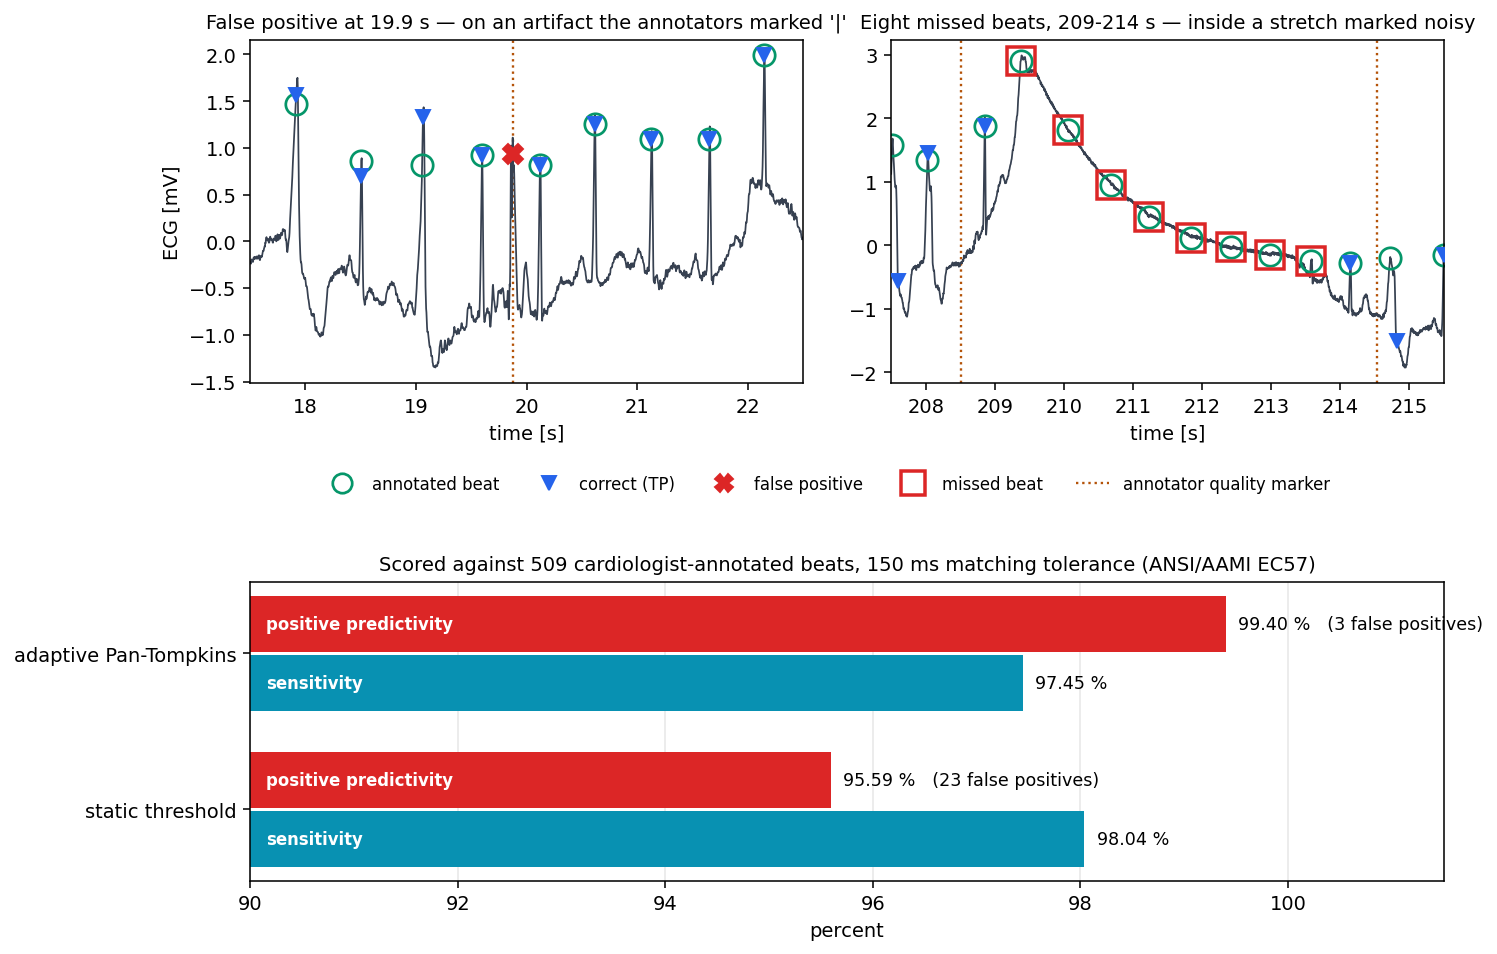
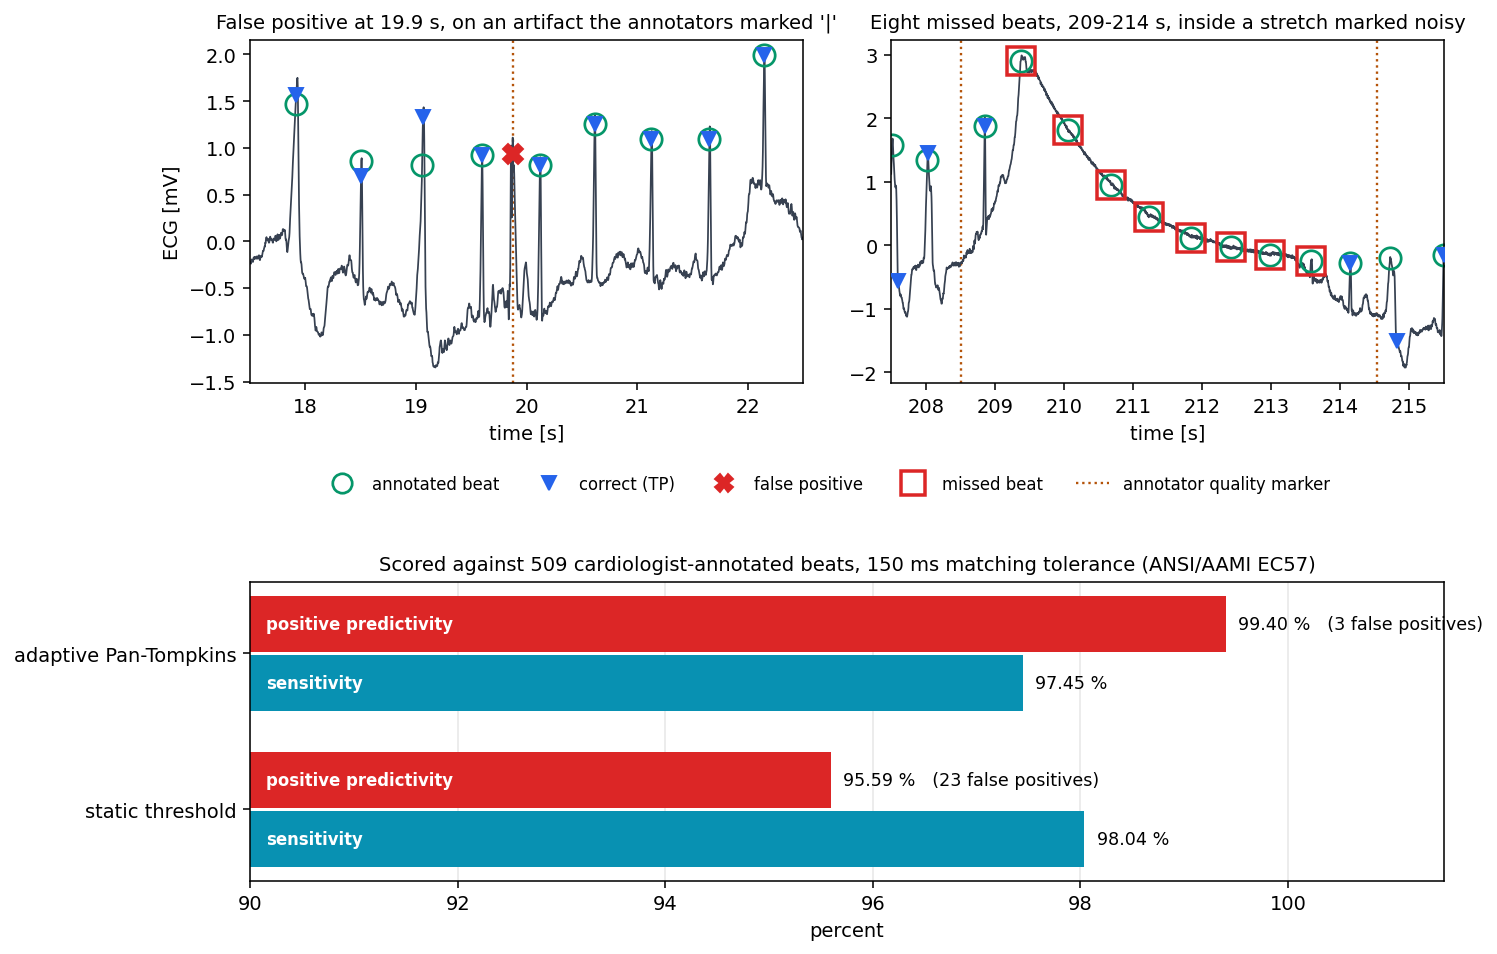
Rewrite docs in plain prose, drop em dashes and header scaffolding

Changed region(s): [[0.1229, 0.0, 0.9833, 0.0304]]

diff --git a/ecg_qrs_pan_tompkins.py b/ecg_qrs_pan_tompkins.py
@@ -1,43 +1,38 @@
 """
-QRS detection on a real ECG — Pan & Tompkins (1985), built and measured
-=======================================================================
-Implements the Pan-Tompkins QRS detector from scratch and scores it against the
-reference beat annotations made by cardiologists, using the standard evaluation
-protocol (ANSI/AAMI EC57: a detection counts as correct if it falls within 150 ms
-of an annotated beat).
+Pan-Tompkins QRS detection, implemented from scratch and scored against real
+cardiologist annotations rather than just plotted and eyeballed. A detection counts
+as correct if it falls within 150 ms of an annotated beat, which is the standard
+ANSI/AAMI EC57 tolerance.
 
-Data
-----
-A 5-minute excerpt of **MIT-BIH record 208**, sampled at 360 Hz — samples
-422820..530820 of the full record, the excerpt distributed with SciPy as
-`scipy.datasets.electrocardiogram`. Record 208 is one of the harder records in the
-database: of the 509 beats in this excerpt, 93 are premature ventricular
-contractions and 56 are fusion beats, so 29 % of the beats are abnormal. It also
-carries real baseline wander and stretches flagged by the annotators as noisy.
+The data is a 5-minute excerpt of MIT-BIH record 208 at 360 Hz, samples
+422820..530820 of the full record (the same excerpt SciPy ships as
+scipy.datasets.electrocardiogram). Record 208 is a genuinely hard case: of its 509
+beats, 93 are premature ventricular contractions and 56 are fusion beats, so 29% of
+the beats are abnormal, and it carries real baseline wander plus stretches the
+annotators themselves flagged as noisy.
 
-Two thresholding strategies
----------------------------
 The filter chain (band-pass, derivative, squaring, moving-window integration) is
-common to both. What differs is how a peak in the integrated signal is judged:
+the same for both detectors below. What differs is how a peak in the integrated
+signal gets judged a heartbeat or not.
 
-  `static`    a single threshold computed once from the whole record. Simple, and
-              what most from-scratch implementations actually do.
+detect_static picks one threshold for the whole record. That's simple, and it's
+what most from-scratch implementations actually do.
 
-  `adaptive`  what the paper actually specifies, and the reason the algorithm works:
-              running signal and noise peak estimates (SPKI / NPKI) that update on
-              every peak, a threshold derived from them, RR-interval limits with
-              search-back to recover beats missed during a dropout, and T-wave
-              discrimination by slope comparison.
+detect_adaptive is what the paper actually specifies, and the reason the algorithm
+works as well as it does: running signal and noise peak estimates (SPKI and NPKI)
+that update on every peak, a threshold derived from them, RR-interval limits with
+search-back to recover a beat missed during a dropout, and T-wave rejection by
+comparing slope against the previous beat.
 
-Both are implemented and both are scored, because the difference between them is
-the interesting result — see the table this script prints.
+Both are implemented and both are scored, because the gap between them is the
+interesting result and it's printed in the table this script writes to
+metrics.txt.
 
-Run
----
+Run with:
     python ecg_qrs_pan_tompkins.py
 
-Everything runs offline from the two files in `data/`. Writes three figures into
-`figures/`, plus `metrics.txt`.
+Everything runs offline from the files already in data/. Writes three figures into
+figures/, plus metrics.txt.
 
 Author: Yasar Aykut Altuntop
 """
@@ -310,12 +305,12 @@ def figure_validation(t, ecg, results, reference, quality):
 
     ax_fp = fig.add_subplot(gs[0, 0])
     _error_panel(ax_fp, t, ecg, adaptive, reference, quality, (17.5, 22.5),
-                 "False positive at 19.9 s — on an artifact the annotators marked '|'")
+                 "False positive at 19.9 s, on an artifact the annotators marked '|'")
     ax_fp.set_ylabel("ECG [mV]")
 
     ax_fn = fig.add_subplot(gs[0, 1])
     _error_panel(ax_fn, t, ecg, adaptive, reference, quality, (207.5, 215.5),
-                 "Eight missed beats, 209-214 s — inside a stretch marked noisy")
+                 "Eight missed beats, 209-214 s, inside a stretch marked noisy")
 
     handles = [
         plt.Line2D([], [], ls="none", marker="o", mfc="none", mec="#059669", ms=10, mew=1.4,

diff --git a/tools/fetch_annotations.py b/tools/fetch_annotations.py
@@ -2,7 +2,7 @@
 Regenerate the ground-truth annotation file from PhysioNet.
 
 The repository already ships `data/annotations_record208_excerpt.csv`, so you do NOT
-need to run this — it exists to document exactly how that file was produced, and to let
+need to run this. It exists to document exactly how that file was produced, and to let
 anyone reproduce it from the original source.
 
 What it does:

diff --git a/README.md b/README.md
@@ -1,116 +1,82 @@
-# QRS Detection on a Real ECG — Pan & Tompkins, Built and Measured
+# QRS Detection on a Real ECG (Pan-Tompkins)
 
-The Pan-Tompkins QRS detector implemented from scratch, then **scored against the beat
-annotations cardiologists made on the same recording** using the standard evaluation
-protocol — not just run and eyeballed.
+This is a from-scratch implementation of the Pan-Tompkins QRS detector, the classic 1985
+algorithm for finding heartbeats in an ECG. It's a learning exercise, not original
+research. The algorithm is well known and plenty of people have implemented it before. What
+I wanted out of this was to actually understand why it's built the way it is, and then hold
+my own implementation to the same standard a real detector would be held to: check it
+against ground truth instead of assuming it works because the plot looks right.
 
-**What this is, plainly:** Pan-Tompkins is a well-known 1985 algorithm that thousands of
-people have implemented; there is nothing novel being claimed here. This is a learning
-exercise — I wanted to actually understand *why* the algorithm is built the way it is,
-which meant implementing the "boring" adaptive-threshold logic that most from-scratch
-versions skip, and then holding myself to the same standard a real detector would be held
-to: score it against ground truth instead of assuming it works because the plot looks
-reasonable. The result below is the outcome of doing that, not a research contribution.
+I ran it on a 5-minute excerpt of MIT-BIH record 208, at 360 Hz, and scored the output
+against the beat-by-beat annotations that cardiologists made on that same recording. That
+scoring is really the point of the project. A detector nobody has validated against a real
+reference is just a demo.
 
-| | detected | TP | FP | FN | Sensitivity | Positive predictivity |
+## Two versions, because the difference is the interesting part
+
+The filtering side of the algorithm is the same in both versions: band-pass at 5-15 Hz to
+keep QRS energy while rejecting baseline wander and T waves, a derivative to emphasize
+steep slopes, squaring so everything is positive and the steep parts get amplified more,
+then a moving-window integration (150 ms, about one QRS width) that turns the spiky
+derivative into one hump per beat. Every implementation gets this part right because it's
+mostly signal-processing plumbing.
+
+Where implementations usually cut corners is the decision stage, deciding which hump in
+that integrated signal is actually a heartbeat. Most from-scratch versions just pick one
+threshold for the whole recording and call it done. That's what I built first (it's in the
+code as `detect_static`), and it's not what Pan and Tompkins actually specified. Their real
+method keeps running estimates of a signal peak and a noise peak that update continuously,
+uses the recent RR interval to decide whether a beat arrived too late and needs a
+search-back to recover something that got missed, and rejects T waves by comparing how
+steep a new peak is against the one before it. I implemented that too (`detect_adaptive`)
+and kept both versions in the script so the difference could be measured instead of just
+asserted.
+
+It matters. Scored against 509 cardiologist-annotated beats with the standard 150 ms
+matching tolerance:
+
+| | detected | correct | false positives | missed | sensitivity | positive predictivity |
 |---|---:|---:|---:|---:|---:|---:|
-| static threshold | 522 | 499 | 23 | 10 | 98.04 % | 95.59 % |
-| **adaptive Pan-Tompkins** | 499 | 496 | **3** | 13 | **97.45 %** | **99.40 %** |
+| static threshold | 522 | 499 | 23 | 10 | 98.04% | 95.59% |
+| adaptive Pan-Tompkins | 499 | 496 | 3 | 13 | 97.45% | 99.40% |
 
-*509 cardiologist-annotated beats · 150 ms matching tolerance (ANSI/AAMI EC57)*
+Doing the decision stage properly cuts the false positives from 23 down to 3. Sensitivity
+drops a little, because the adaptive version is more cautious in noisy stretches, and that
+trade-off is right there in the table instead of hidden behind one summary number.
 
 ![Validation against the reference annotations](figures/ecg_validation.png)
 
----
+## Where the remaining errors come from
 
-## The point of this project
+I didn't stop at the count. MIT-BIH annotators mark more than just beats, they also flag
+signal quality: a `~` where the quality changes, and a `|` for something that looks like a
+QRS but isn't one. I checked every error the adaptive detector made against those markers.
 
-Anyone can implement a band-pass filter and call `find_peaks`. Two things separate that
-from a real QRS detector, and this project is about both.
+Of its 16 total errors, 14 sit inside a stretch the annotators themselves flagged. The one
+false positive fires at 19.9 seconds, right on a sample marked `|`, an artifact that looks
+enough like a real beat that the algorithm can be forgiven for it. The eight beats missed in
+a row between 209 and 214 seconds happen inside a segment bracketed by quality markers,
+where the baseline is swinging through about 5 mV of motion artifact. Only two errors, both
+isolated premature ventricular contractions, have no such excuse and are genuine misses.
 
-**First, the thresholding is the algorithm.** The filter chain — band-pass, derivative,
-squaring, moving-window integration — is the easy half and every implementation has it.
-What Pan and Tompkins actually contributed is the decision stage: running signal and noise
-peak estimates that adapt continuously, RR-interval limits with *search-back* to recover
-beats missed during a dropout, and T-wave rejection by slope comparison. Most from-scratch
-implementations skip all of that and use one fixed threshold.
-
-Both versions are implemented here so the difference can be measured rather than asserted.
-**Replacing the fixed threshold with the real adaptive logic cuts false positives from 23
-to 3.** Sensitivity drops slightly — the adaptive version is more conservative in noise —
-and that trade is visible in the table instead of hidden.
-
-**Second, a detector without a ground truth is a demo.** The reference annotations for
-MIT-BIH are available, so there is no excuse for not scoring against them. `tools/`
-contains the script that fetches them and locates this excerpt inside the full record.
-
----
-
-## Where the errors actually are
-
-Every error was checked against the annotators' own signal-quality markers — `~` for a
-change in signal quality, `|` for an isolated QRS-like artifact.
-
-| | errors | in an annotator-flagged stretch | outside |
-|---|---:|---:|---|
-| static threshold | 33 | 23 (70 %) | 10, scattered across normal, fusion and PVC beats |
-| **adaptive Pan-Tompkins** | **16** | **14 (88 %)** | **2 — both isolated PVCs** |
-
-The adaptive detector's residual errors are almost entirely explained by the recording, not
-the algorithm:
-
-- The single false positive at **19.9 s** lands exactly on a sample the annotators
-  labelled `|` — *an isolated QRS-like artifact*. The detector fired on something that
-  genuinely looks like a QRS and that the reference deliberately excludes from the beat
-  list. Counting it as an error is arguably unfair to the detector.
-- The run of **eight consecutive missed beats between 209 s and 214 s** sits inside a
-  segment bracketed by quality markers at 208.5 s and 214.5 s. The right-hand panel above
-  shows why: the baseline swings through 5 mV, which is motion artifact, and the beats ride
-  down its flank.
-- Only **two** errors — isolated premature ventricular contractions at 113.5 s and
-  138.0 s — have no such explanation.
-
----
+I picked record 208 for a reason: 29% of its beats are abnormal (93 premature ventricular
+contractions and 56 fusion beats among 509 total), so it's a meaningfully harder test than
+an average MIT-BIH record. Published Pan-Tompkins numbers, sensitivity 99.3%, PPV 99.5%, are
+averaged over all 48 records in the database, so this result should read against that
+context rather than against those numbers directly.
 
 ## The data
 
-A 5-minute excerpt of **MIT-BIH record 208** at 360 Hz: samples 422820–530820 of the full
-record, the excerpt distributed with SciPy as `scipy.datasets.electrocardiogram`. That
-offset was not assumed — `tools/fetch_annotations.py` locates the excerpt inside the full
-record by direct sample matching, and finds it at 422820 with a residual of zero.
+The signal is samples 422820 to 530820 of MIT-BIH record 208, the same 5-minute excerpt
+that ships inside SciPy as `scipy.datasets.electrocardiogram`. I didn't just assume that
+offset; `tools/fetch_annotations.py` locates the excerpt inside the full 30-minute record by
+matching samples directly, and finds it at 422820 with zero residual difference. That's what
+makes the reference annotations line up with the detector's output sample-for-sample.
 
-Record 208 is deliberately a hard case. Of its 509 beats in this window:
-
-| | count |
-|---|---:|
-| normal | 358 |
-| premature ventricular contractions | 93 |
-| fusion beats | 56 |
-| unclassifiable | 2 |
-
-**29 % of the beats are abnormal**, and the annotators flagged 14 signal-quality events.
-Published Pan-Tompkins performance — Se 99.3 %, PPV 99.5 % — is averaged across all 48
-records; this one is materially harder than that average, which is the point of choosing it.
-
-See [`data/README.md`](data/README.md) for citation and licence.
-
----
-
-## Pipeline
-
-![Pan-Tompkins stages](figures/ecg_pipeline.png)
-
-1. **Band-pass 5–15 Hz** — keeps QRS energy, rejects baseline wander, T waves and mains hum.
-2. **Derivative** — QRS complexes are steep; P and T waves are not.
-3. **Squaring** — makes everything positive and amplifies the steep parts nonlinearly.
-4. **Moving-window integration, 150 ms** — roughly one QRS width, turning the spiky
-   derivative into one hump per beat.
-5. **Decision** — static or adaptive, as above.
-6. **Refinement** — each detection is moved onto the largest deflection within ±50 ms.
-
-![Detected R-peaks and recovered heart rate](figures/ecg_rpeaks.png)
-
----
+Full citation and licence details for the MIT-BIH database are in `data/README.md`. Since
+the annotation files are small text extracts bundled here for convenience, please check the
+current PhysioNet licence terms before treating this as a public reference, as terms can
+change between dataset versions.
 
 ## Running it
 
@@ -119,40 +85,38 @@ pip install -r requirements.txt
 python ecg_qrs_pan_tompkins.py
 ```
 
-Runs entirely offline from the three files in `data/` — no download, no internet needed for
-this step. It regenerates every figure in `figures/` and `metrics.txt` in place, and the
-numbers should come out identical to the ones in this README (499 detections, 3 false
-positives, PPV 99.40 %). If they don't, something about the environment differs and that's
-worth knowing.
+That's it, no network access needed. It reads the three files already in `data/`, writes
+the figures into `figures/`, and writes `metrics.txt`. If you run it yourself the numbers
+should come out exactly as in the table above (499 detections, 3 false positives, PPV
+99.40%). If they don't match, something about the environment is different and that's worth
+tracking down.
 
-To regenerate the ground-truth annotation files from PhysioNet (needs network and `wfdb`,
-which is not a dependency of the main script):
+The ground-truth files in `data/` were generated once from PhysioNet and are already
+included, so you don't need to regenerate them. If you want to see exactly how they were
+made, or reproduce them yourself, `tools/fetch_annotations.py` does that: it needs network
+access and the `wfdb` package, which isn't a dependency of the main script.
 
 ```bash
 pip install wfdb
 python tools/fetch_annotations.py
 ```
 
----
+## Why I built this
 
-## Why this project exists
-
-QRS detection is the front end of nearly every ECG application — arrhythmia classification,
-heart-rate variability, cardiac gating. I work on
-[wearable ultrasound blood-pressure monitoring](https://github.com/ku-bmdl/us-bp-fiwus)
-at the Bio-Integrated Microdevices Laboratory, Koç University, where beat detection triggers
-the acquisition window for each pulse. Getting it right on a noisy record, and knowing
-exactly which beats it misses and why, is the difference between a pipeline that works on a
-bench and one that works on a person.
-
----
+QRS detection sits in front of almost every ECG application: arrhythmia classification,
+heart-rate variability, cardiac gating. I work on wearable ultrasound blood-pressure
+monitoring at the Bio-Integrated Microdevices Laboratory at Koç University, where beat
+detection triggers the acquisition window for each pulse. Getting that right on a noisy
+recording, and actually knowing which beats it misses and why, is the gap between something
+that works on a bench and something that works on a person. This project was my way of
+closing that gap on the algorithm side before trusting it on hardware.
 
 ## Licence
 
-Code is MIT (see [LICENSE](LICENSE)). The MIT-BIH data carries its own citation
-requirements — see [`data/README.md`](data/README.md).
+Code is MIT, see `LICENSE`. The MIT-BIH data carries its own citation requirements, see
+`data/README.md`.
 
 ## Reference
 
-Pan, J. and Tompkins, W.J. "A Real-Time QRS Detection Algorithm."
-*IEEE Transactions on Biomedical Engineering*, BME-32(3), 230–236, 1985.
+Pan, J. and Tompkins, W.J. "A Real-Time QRS Detection Algorithm." IEEE Transactions on
+Biomedical Engineering, BME-32(3), 230-236, 1985.

diff --git a/data/README.md b/data/README.md
@@ -4,14 +4,14 @@ Three files, all derived from **MIT-BIH Arrhythmia Database record 208**.
 
 | file | what it is |
 |---|---|
-| `ecg_mitbih_record208.csv` | the ECG signal — 108 000 samples at 360 Hz (5 minutes) |
+| `ecg_mitbih_record208.csv` | the ECG signal, 108 000 samples at 360 Hz (5 minutes) |
 | `annotations_record208_excerpt.csv` | 509 reference beat positions and their labels |
 | `quality_markers_record208_excerpt.csv` | 14 annotator signal-quality markers |
 
 ## The excerpt
 
-The signal is samples **422820–530820** of record 208, channel MLII — the 5-minute excerpt
-distributed with SciPy as `scipy.datasets.electrocardiogram`.
+The signal is samples **422820–530820** of record 208, channel MLII. That's the 5-minute
+excerpt distributed with SciPy as `scipy.datasets.electrocardiogram`.
 
 That offset is verified, not assumed. `tools/fetch_annotations.py` searches the full 30-minute
 record for the excerpt by minimising absolute sample difference, and finds it at 422820 with
@@ -38,8 +38,8 @@ analysis:
 | `~` | change in signal quality |
 | `\|` | isolated QRS-like artifact |
 
-Rhythm-change markers (`+`) and comments are discarded — they are not detectable events and
-counting them either way would distort the score.
+Rhythm-change markers (`+`) and comments are discarded, since they are not detectable events
+and counting them either way would distort the score.
 
 ## Citation
 
